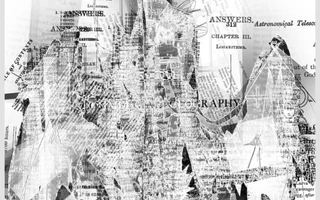
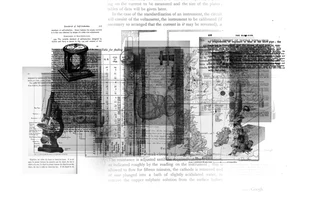
Update Art cover, accent, and cover note

diff --git a/src/scripts/project-case-study.js b/src/scripts/project-case-study.js
@@ -156,11 +156,13 @@ export function mountProjectCaseStudy(host, { base = '/', reducedMotion } = {}) 
           for (const [index, paragraph] of (note.paragraphs || []).entries()) {
             const text = element('p');
             if (index === 0) {
-              const back = element('a', '', String(note.number));
-              back.href = `#project-ref-${slug}-${note.number}`;
-              back.dataset.articleJump = `project-ref-${slug}-${note.number}`;
-              back.setAttribute('role', 'doc-backlink');
-              back.setAttribute('aria-label', `Back to reference ${note.number}`);
+              const back = element(note.backlink === false ? 'span' : 'a', 'footnote-number', String(note.number));
+              if (note.backlink !== false) {
+                back.href = `#project-ref-${slug}-${note.number}`;
+                back.dataset.articleJump = `project-ref-${slug}-${note.number}`;
+                back.setAttribute('role', 'doc-backlink');
+                back.setAttribute('aria-label', `Back to reference ${note.number}`);
+              }
               text.append('[', back, '] ');
             }
             appendInline(text, paragraph);

diff --git a/src/styles/portfolio.css b/src/styles/portfolio.css
@@ -242,6 +242,7 @@ dialog::backdrop { background: #050b1bc9; }
 .project-case-study[data-layout="art"] .project-footnotes { max-width: 38rem; margin: 64px auto 0; padding-top: 28px; font-family: var(--art-reading-font); }
 .project-case-study[data-layout="art"] .project-footnote p { font-size: 16px; line-height: 1.65; }
 .project-case-study[data-layout="art"] :is(.case-study-section, .project-footnotes) a { color: var(--accent); text-decoration-thickness: 1px; text-underline-offset: .14em; }
+.project-case-study[data-layout="art"] .footnote-number { color: var(--accent); }
 @media (min-width: 1000px) {
   .project-case-study[data-layout="art"] .case-study-section { display: grid; grid-template-columns: minmax(0, 1.2fr) minmax(0, 1fr); column-gap: clamp(32px, 4vw, 64px); align-items: start; }
   .project-case-study[data-layout="art"] .case-study-section h2 { grid-column: 1 / -1; }

diff --git a/README.md b/README.md
@@ -77,13 +77,13 @@ Edit `src/data/site.json` for the name, header domain, email, LinkedIn URL, defa
 
 ## Art collection
 
-Art is the final project at `/projects/#project=art`. Its gallery cover comes from Derek's supplied `overprint-difference-2550x3300-300dpi.png`, whose actual dimensions are 1582 × 2048. The full-resolution WebP copy is `public/art/collection/overprint-difference.webp`; the gallery fills its frame with that image and uses a separate small WebP thumbnail. The article uses the five updated PNG photographs supplied on October 23, 2026, in the same order: Stippling, Broken Line, Hatching, stamps, and Watercolor. Production copies use quality-94 WebP at the supplied 2048 × 1536 dimensions, with no added color, contrast, perspective, or crop changes. Replace those same image paths to use future edited photos; update dimensions if their size changes.
+Art is the final project at `/projects/#project=art`. Its gallery cover comes from Derek's supplied `overprint-2550x3300-300dpi(1).png`, whose actual dimensions are 1582 × 2048. The full-resolution WebP copy is `public/art/collection/overprint-cover.webp`; the gallery fills its frame with that image and uses a separate small WebP thumbnail. The article uses the five updated PNG photographs supplied on October 23, 2026, in the same order: Stippling, Broken Line, Hatching, stamps, and Watercolor. Production copies use quality-94 WebP at the supplied 2048 × 1536 dimensions, with no added color, contrast, perspective, or crop changes. Replace those same image paths to use future edited photos; update dimensions if their size changes.
 
 The works are labeled only **01–05**, in the supplied PDF order. The article restores the draft's wording, bold, italics, inline links, and bottom notes **[1]–[3]**, while removing the approved apologetic passages and using the spelling Steller’s jay. The Cornell link, supplied quotation, and Valorant credit remain in their original numbered notes. No creation dates were supplied, so this collection omits the year instead of assigning one.
 
 The Art article's reading style takes inspiration from David Chapman's *How To Think Real Good*: local Georgia serif prose, clearer paragraph spacing, and smaller bottom notes. At 1000px and wider, each work pairs a full photo on the left with its description on the right, using the same columns as the introduction. The photo stays visible while longer text is read and remains contained within its section. Smaller screens use a centered column up to 38rem wide, with matching photo and prose widths. Photos remain complete in the article. The section navigator is a compact horizontal row above the collection. Natural paragraph breaks separate personal context, technique, and observations without changing the wording or emphasis. This styling is scoped to Art, including its introduction; other projects keep their existing typography. Inline footnote markers have one separating space, including `light. [1]`, and retain their existing jump/backlink behavior.
 
-Art uses magenta-red `#c20f53` for its controls, headings, section choices, inline links, footnote numbers, and resting centered gallery caption. The caption becomes white on its accent background when hovered or keyboard-focused. White interface text stays readable against that accent; article prose retains dark ink on white.
+Art uses vibrant magenta `#c90062` for its controls, headings, section choices, inline links, footnote numbers, and resting centered gallery caption. The caption becomes white on its accent background when hovered or keyboard-focused. White interface text stays readable against that accent; article prose retains dark ink on white.
 
 Project `eyebrow` is optional; `fit`, `imageWidth`, and `imageHeight` control a cover's framing and reserved size. `caseStudy.layout: "art"` groups each section's paragraphs in `.case-study-prose` for the paired layout. Section `mediaFirst` places photos before their descriptions in reading order; `references` is an optional array of `{ "label", "href" }` with HTTP(S) links. These options reset when another project opens. The existing placeholder articles keep their previous layout and labels.
 
